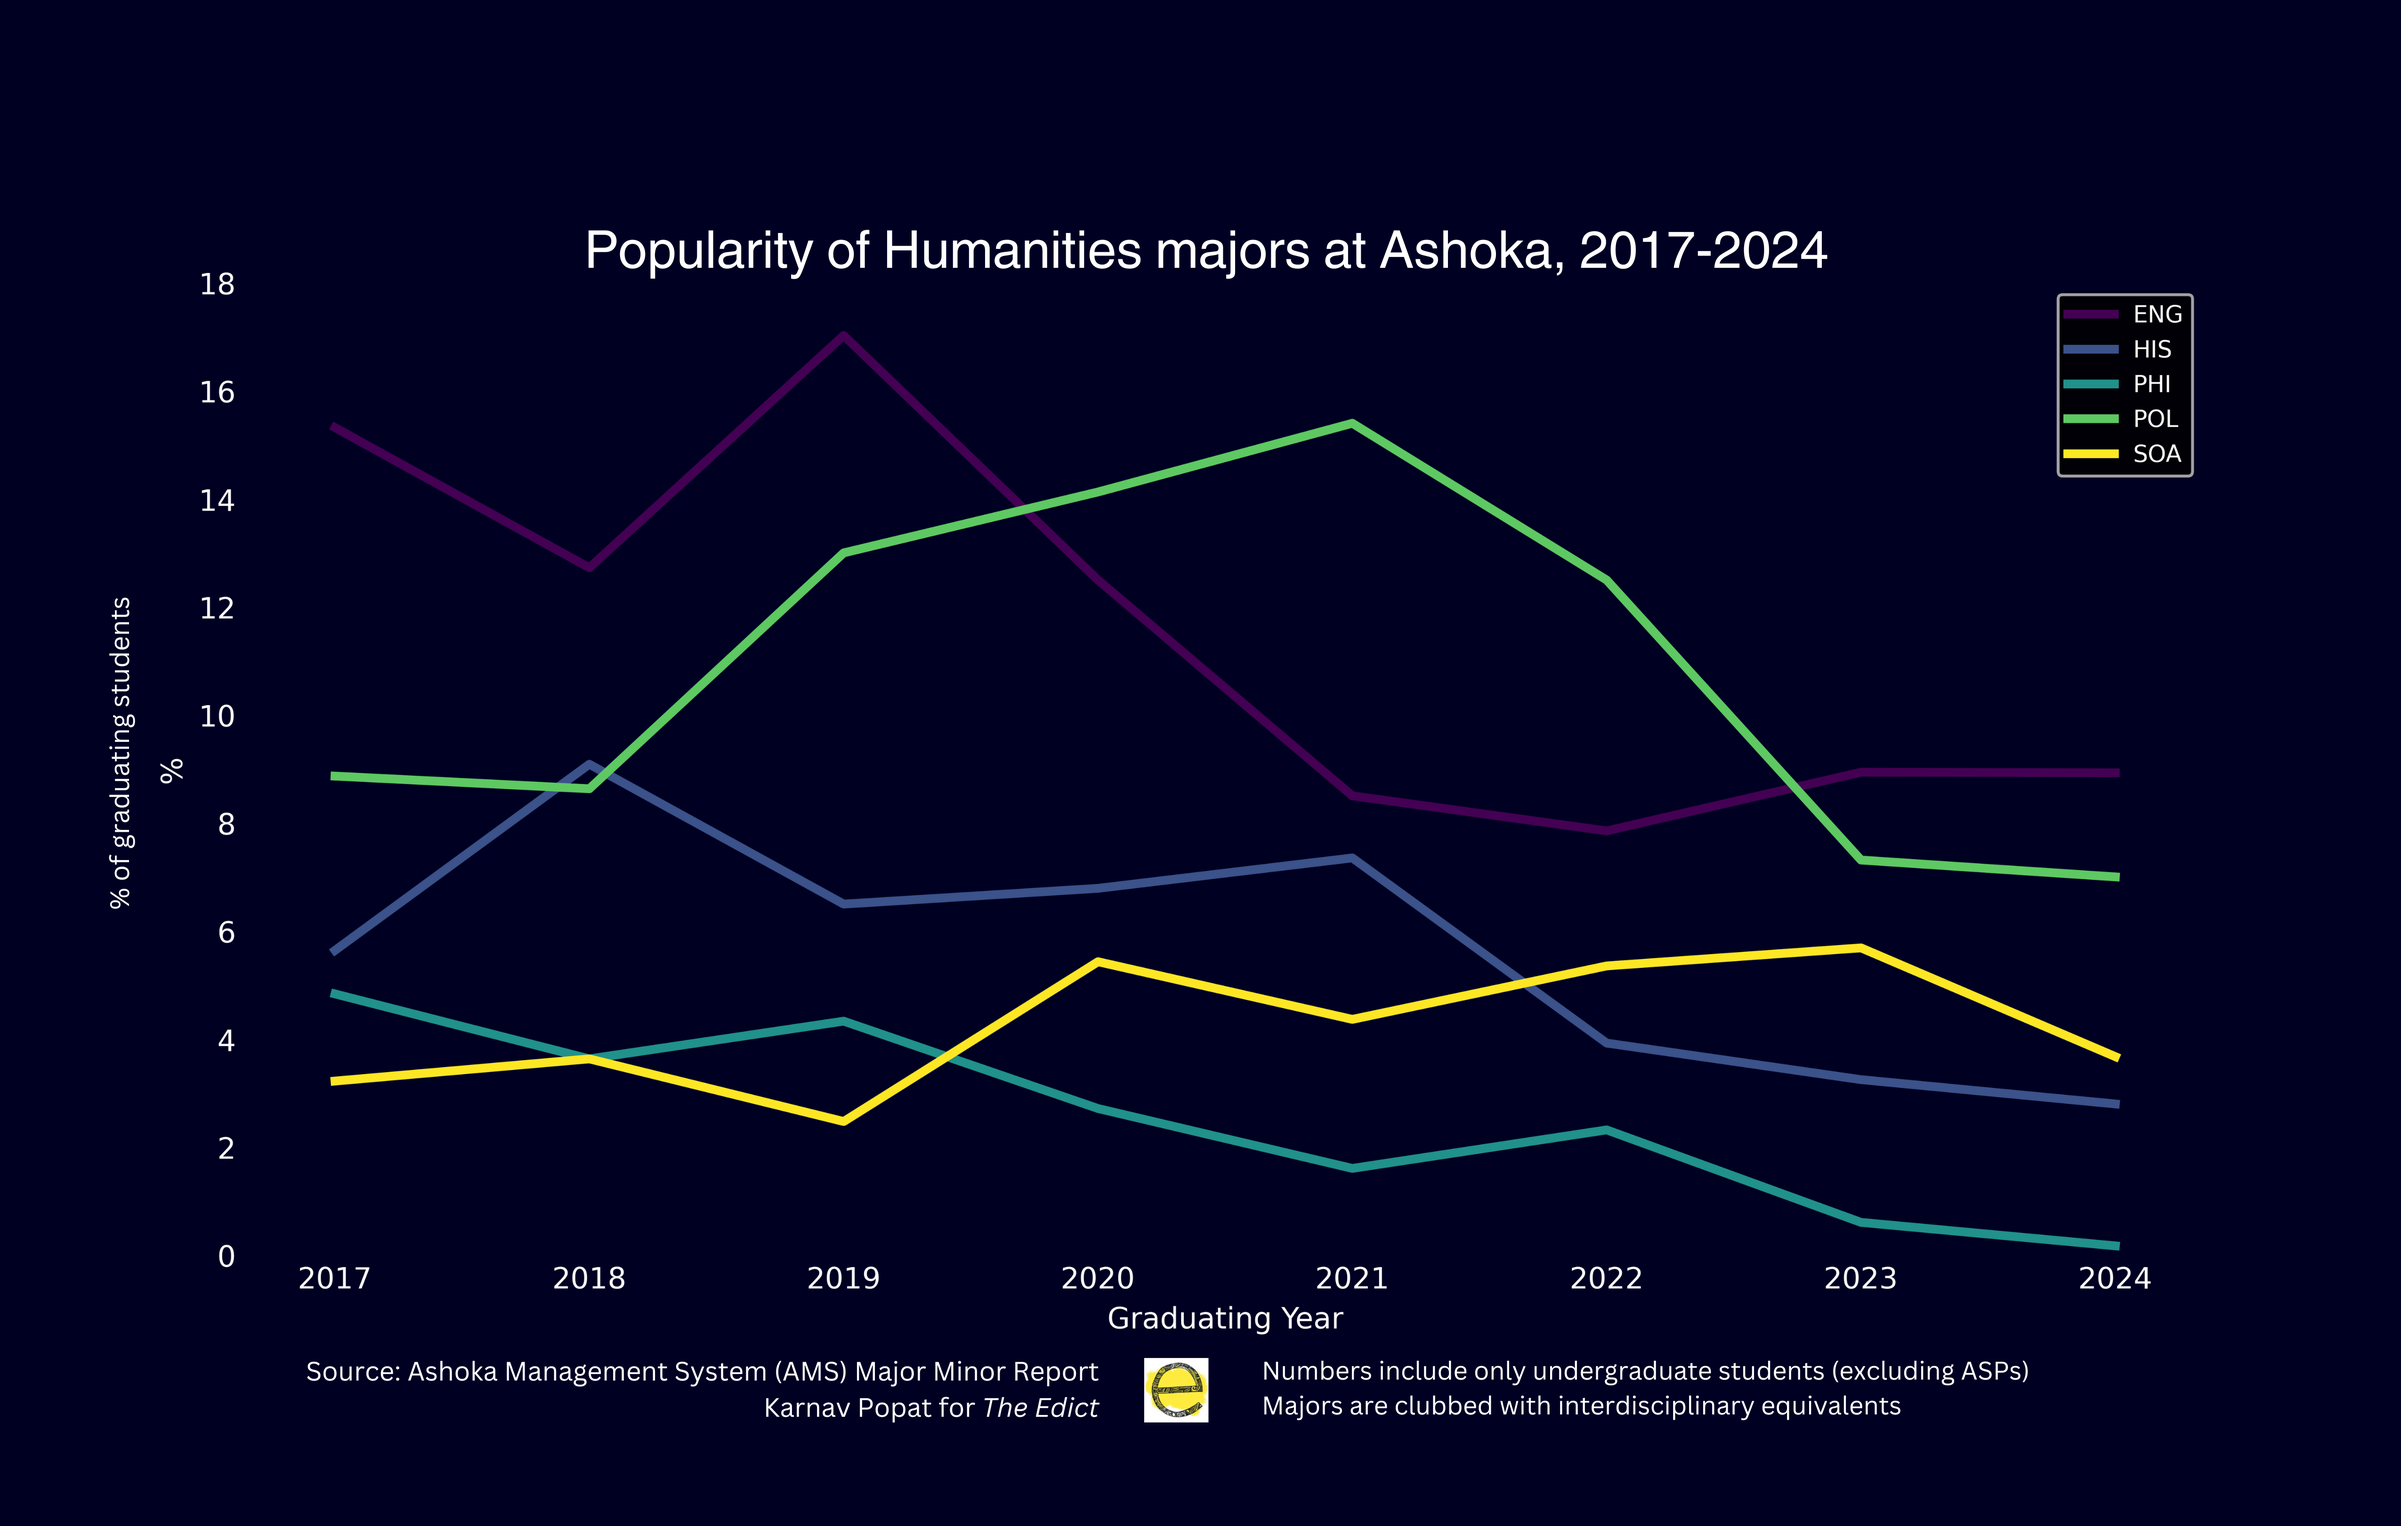
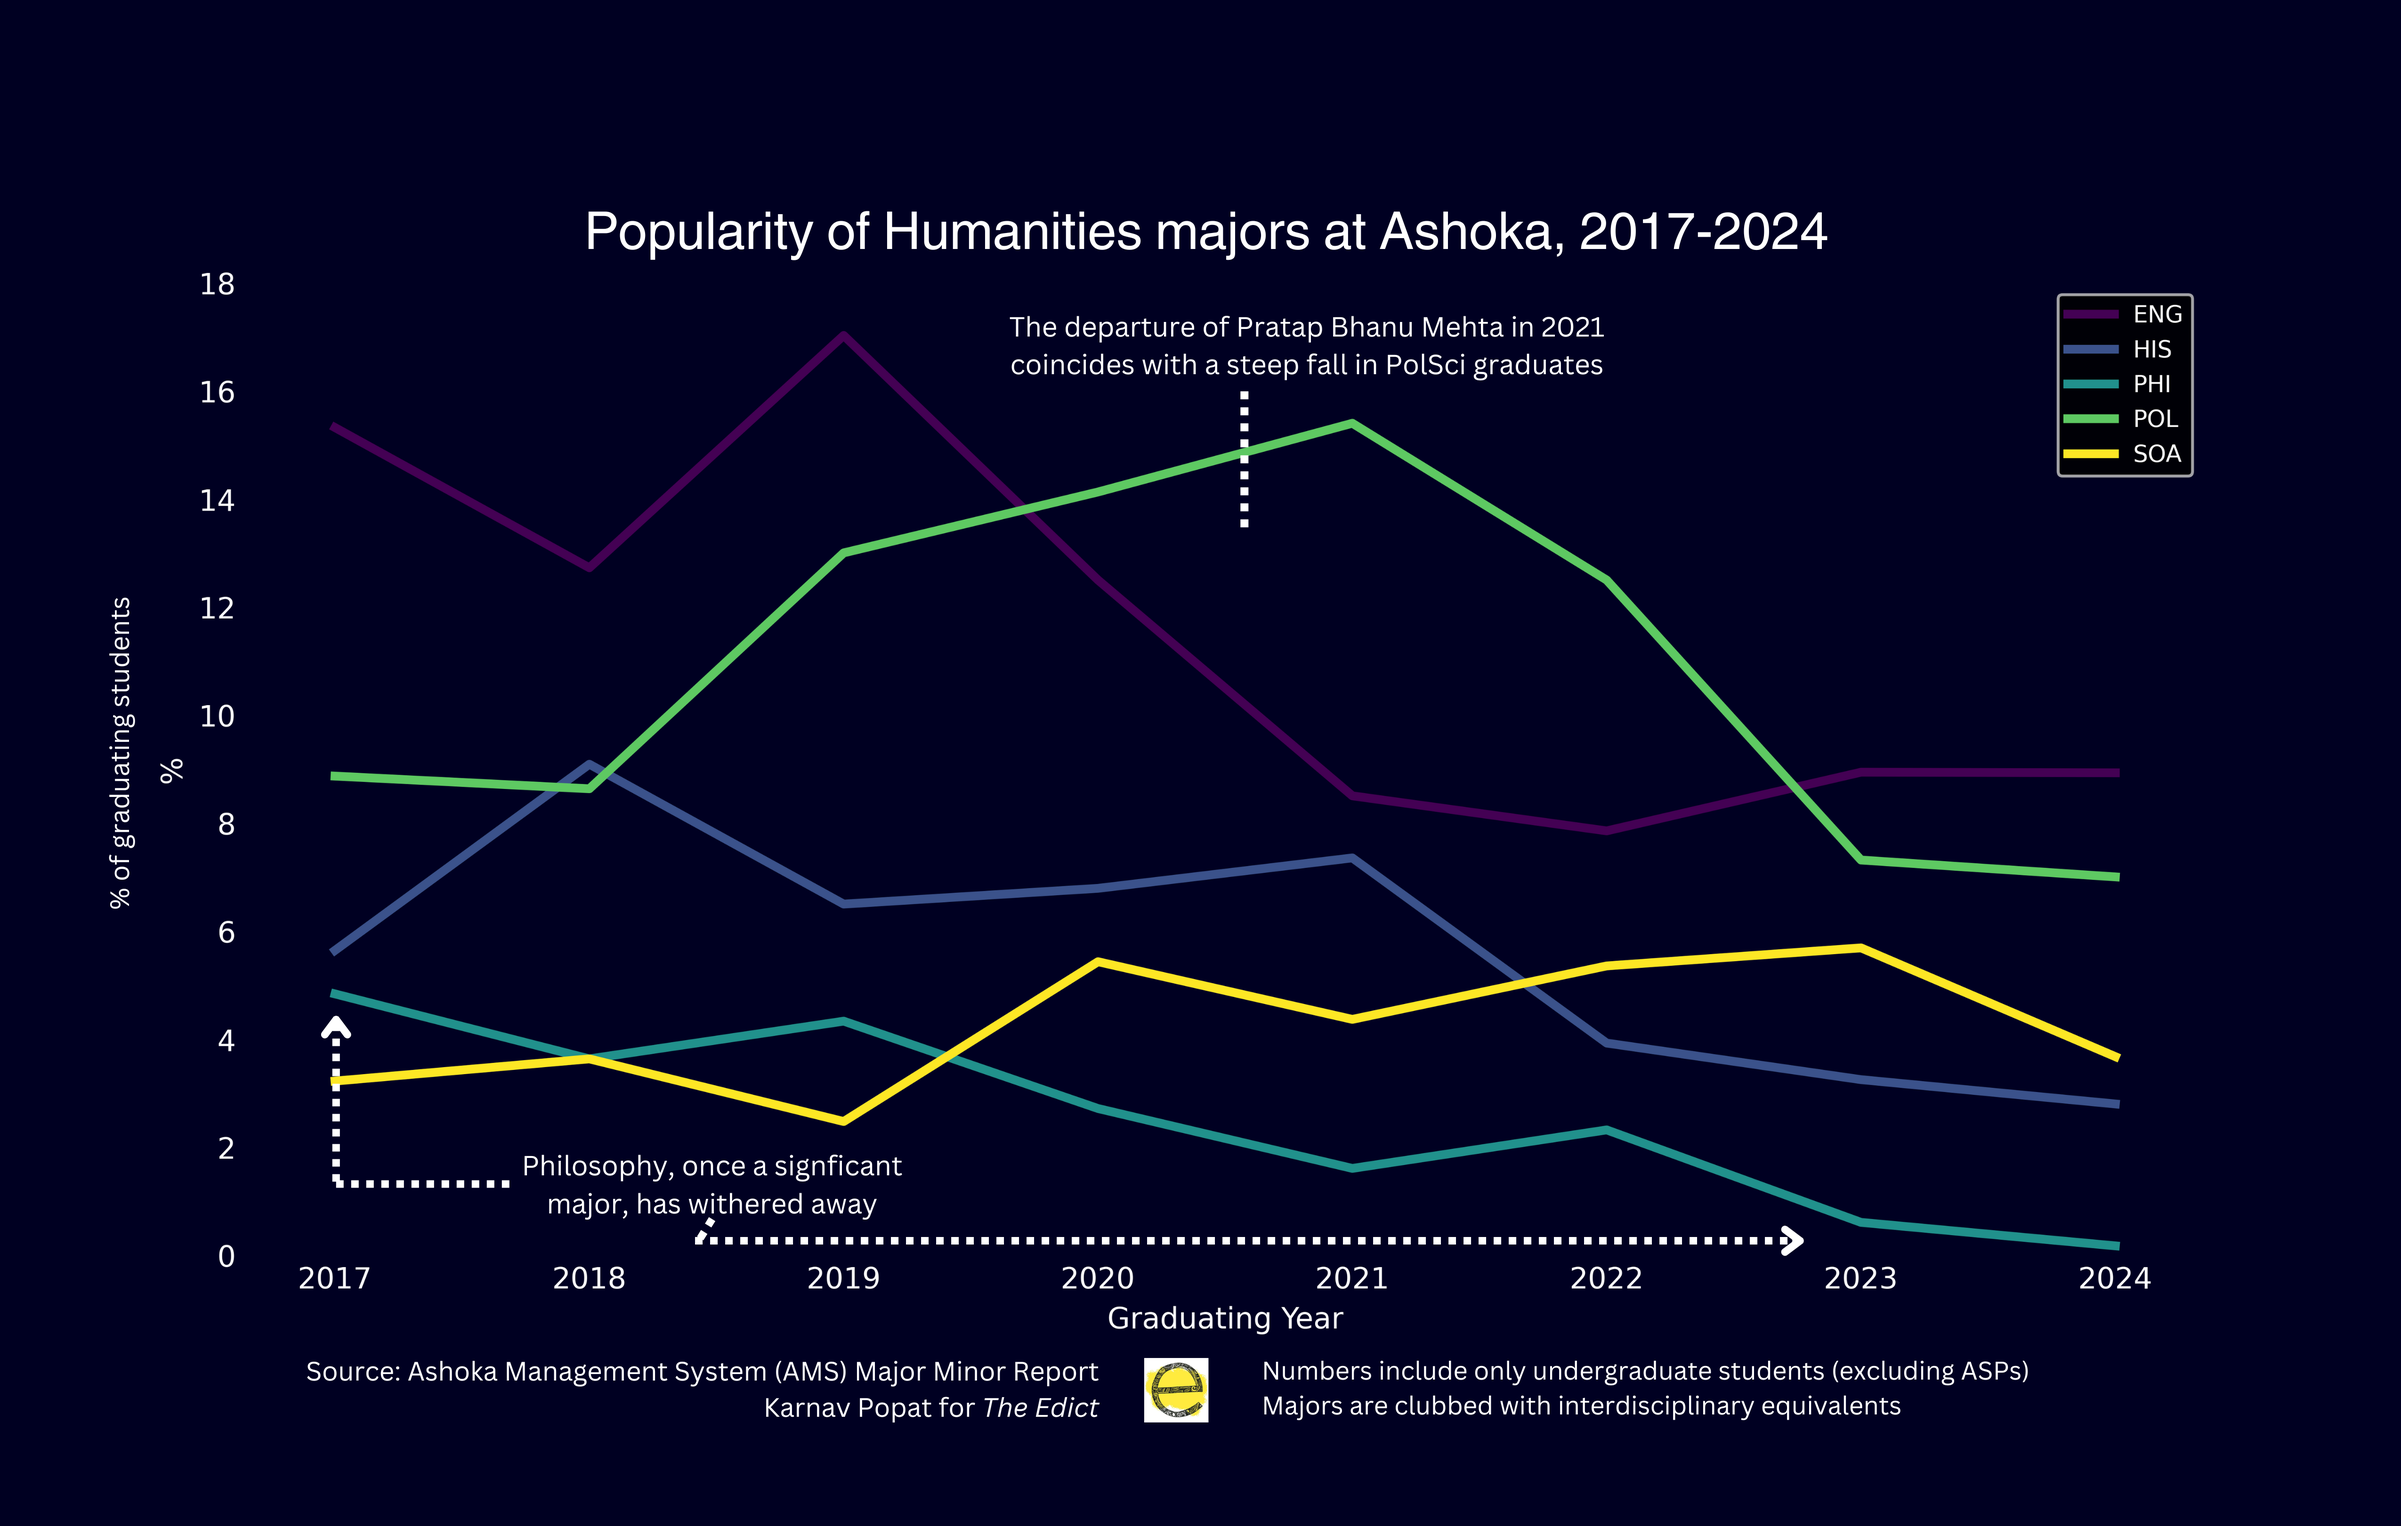
misc

diff --git a/10-years-of-ashoka.html b/10-years-of-ashoka.html
@@ -265,7 +265,7 @@
 						</p>
 
 						<p>
-							Having studied Political Science at Ashoka, he feels that the <span class="title red">(often public) departures of 
+							Having studied Political Science at Ashoka, he feels that, in the wake of the <span class="title red">(often public) departures of 
 							huge names in the discipline, such as Professor Pratap Bhanu Mehta</span>, and the hollowing out of 
 							key centres such as  Trivedi Centre for Political Data (TCPD), 
 							a one of its kind open-access political data resource, employability for Political Science 
@@ -283,7 +283,7 @@
 							<div class="step" data-step="1" style="padding: 5%;">
 								Since Mehta's resignation in April 2021, a number of professors, 
 								including Neelanjan Sircar and Madhav Khosla also did not continue at Ashoka. 
-								<i>The Edict</i> reported that by Monsoon 2021, many students could not enrol in introductory courses.. 
+								<i>The Edict</i> reported that by Monsoon 2021, many students could not enrol in introductory courses. 
 								Only 7% of the undergraduate batch of 2024 graduated with a political science major.
 							</div>
 
@@ -382,7 +382,7 @@
 								After the pandemic, the demand for majors such as Psychology has risen. 
 								<span class="title red">In 2017, 14 students graduated with a psychology degree but 2024 that number rose to 111.</span>
 								Sramana Majumdar, Assistant Professor of Psychology, thinks that “conversations around mental health 
-								become accessible and salient during the pandemic.” might have motivated young people to develop an 
+								become accessible and salient during the pandemic,” which might have motivated young people to develop an 
 								interest in psychology. She also notes that students switching from majors such as Economics and 
 								Computer Science to Psychology in recent years have massively contributed to “increasing student numbers” within the department.
 							</div>
@@ -417,7 +417,7 @@
 						<p>
 							Data from the major-minor report shows that the number of students pursuing Entrepreneurship, 
 							a minor that provides hands-on experience with business and marketing, is increasing exponentially. 
-							Entrepreneurship is “more like I'm getting skills because there is nothing like a psychology-major job.” 
+							Entrepreneurship is “more like I'm getting skills because there is nothing like a psychology-major job,” Pund says. 
 							By doing Psychology, Entrepreneurship and Creative Writing, Pund is gearing up for a job in marketing. 
 							The growing numbers of entrepreneurship minors at Ashoka illustrate the shift in preferences where 
 							diverse academic experiences are sacrificed for <a class="red red_link" href="https://the-ken.com/story/10-years-in-liberal-arts-pioneer-ashoka-university-puts-its-b-school-boots-on/">“the added benefit of employability.”</a>
@@ -745,7 +745,7 @@
 						</p>
 
 						<p style="font-size: 16px">
-							Having studied Political Science at Ashoka, he feels that the <span class="title red">(often public) departures of 
+							Having studied Political Science at Ashoka, he feels that, in the wake of the <span class="title red">(often public) departures of 
 							huge names in the discipline, such as Professor Pratap Bhanu Mehta</span>, and the hollowing out of 
 							key centres such as  Trivedi Centre for Political Data (TCPD), 
 							a one of its kind open-access political data resource, employability for Political Science 
@@ -759,7 +759,7 @@
 						<p style="font-size: 16px">
 							Since Mehta's resignation in April 2021, a number of professors, 
 							including Neelanjan Sircar and Madhav Khosla also did not continue at Ashoka. 
-							<i>The Edict</i> reported that by Monsoon 2021, many students could not enrol in introductory courses.. 
+							<i>The Edict</i> reported that by Monsoon 2021, many students could not enrol in introductory courses. 
 							Only 7% of the undergraduate batch of 2024 graduated with a political science major.
 						</p>
 
@@ -870,7 +870,7 @@
 						<p style="font-size: 16px">
 							Data from the major-minor report shows that the number of students pursuing Entrepreneurship, 
 							a minor that provides hands-on experience with business and marketing, is increasing exponentially. 
-							Entrepreneurship is “more like I'm getting skills because there is nothing like a psychology-major job.” 
+							Entrepreneurship is “more like I'm getting skills because there is nothing like a psychology-major job,” Pund says. 
 							By doing Psychology, Entrepreneurship and Creative Writing, Pund is gearing up for a job in marketing. 
 							The growing numbers of entrepreneurship minors at Ashoka illustrate the shift in preferences where 
 							diverse academic experiences are sacrificed for <a class="red red_link" href="https://the-ken.com/story/10-years-in-liberal-arts-pioneer-ashoka-university-puts-its-b-school-boots-on/">“the added benefit of employability.”</a>
